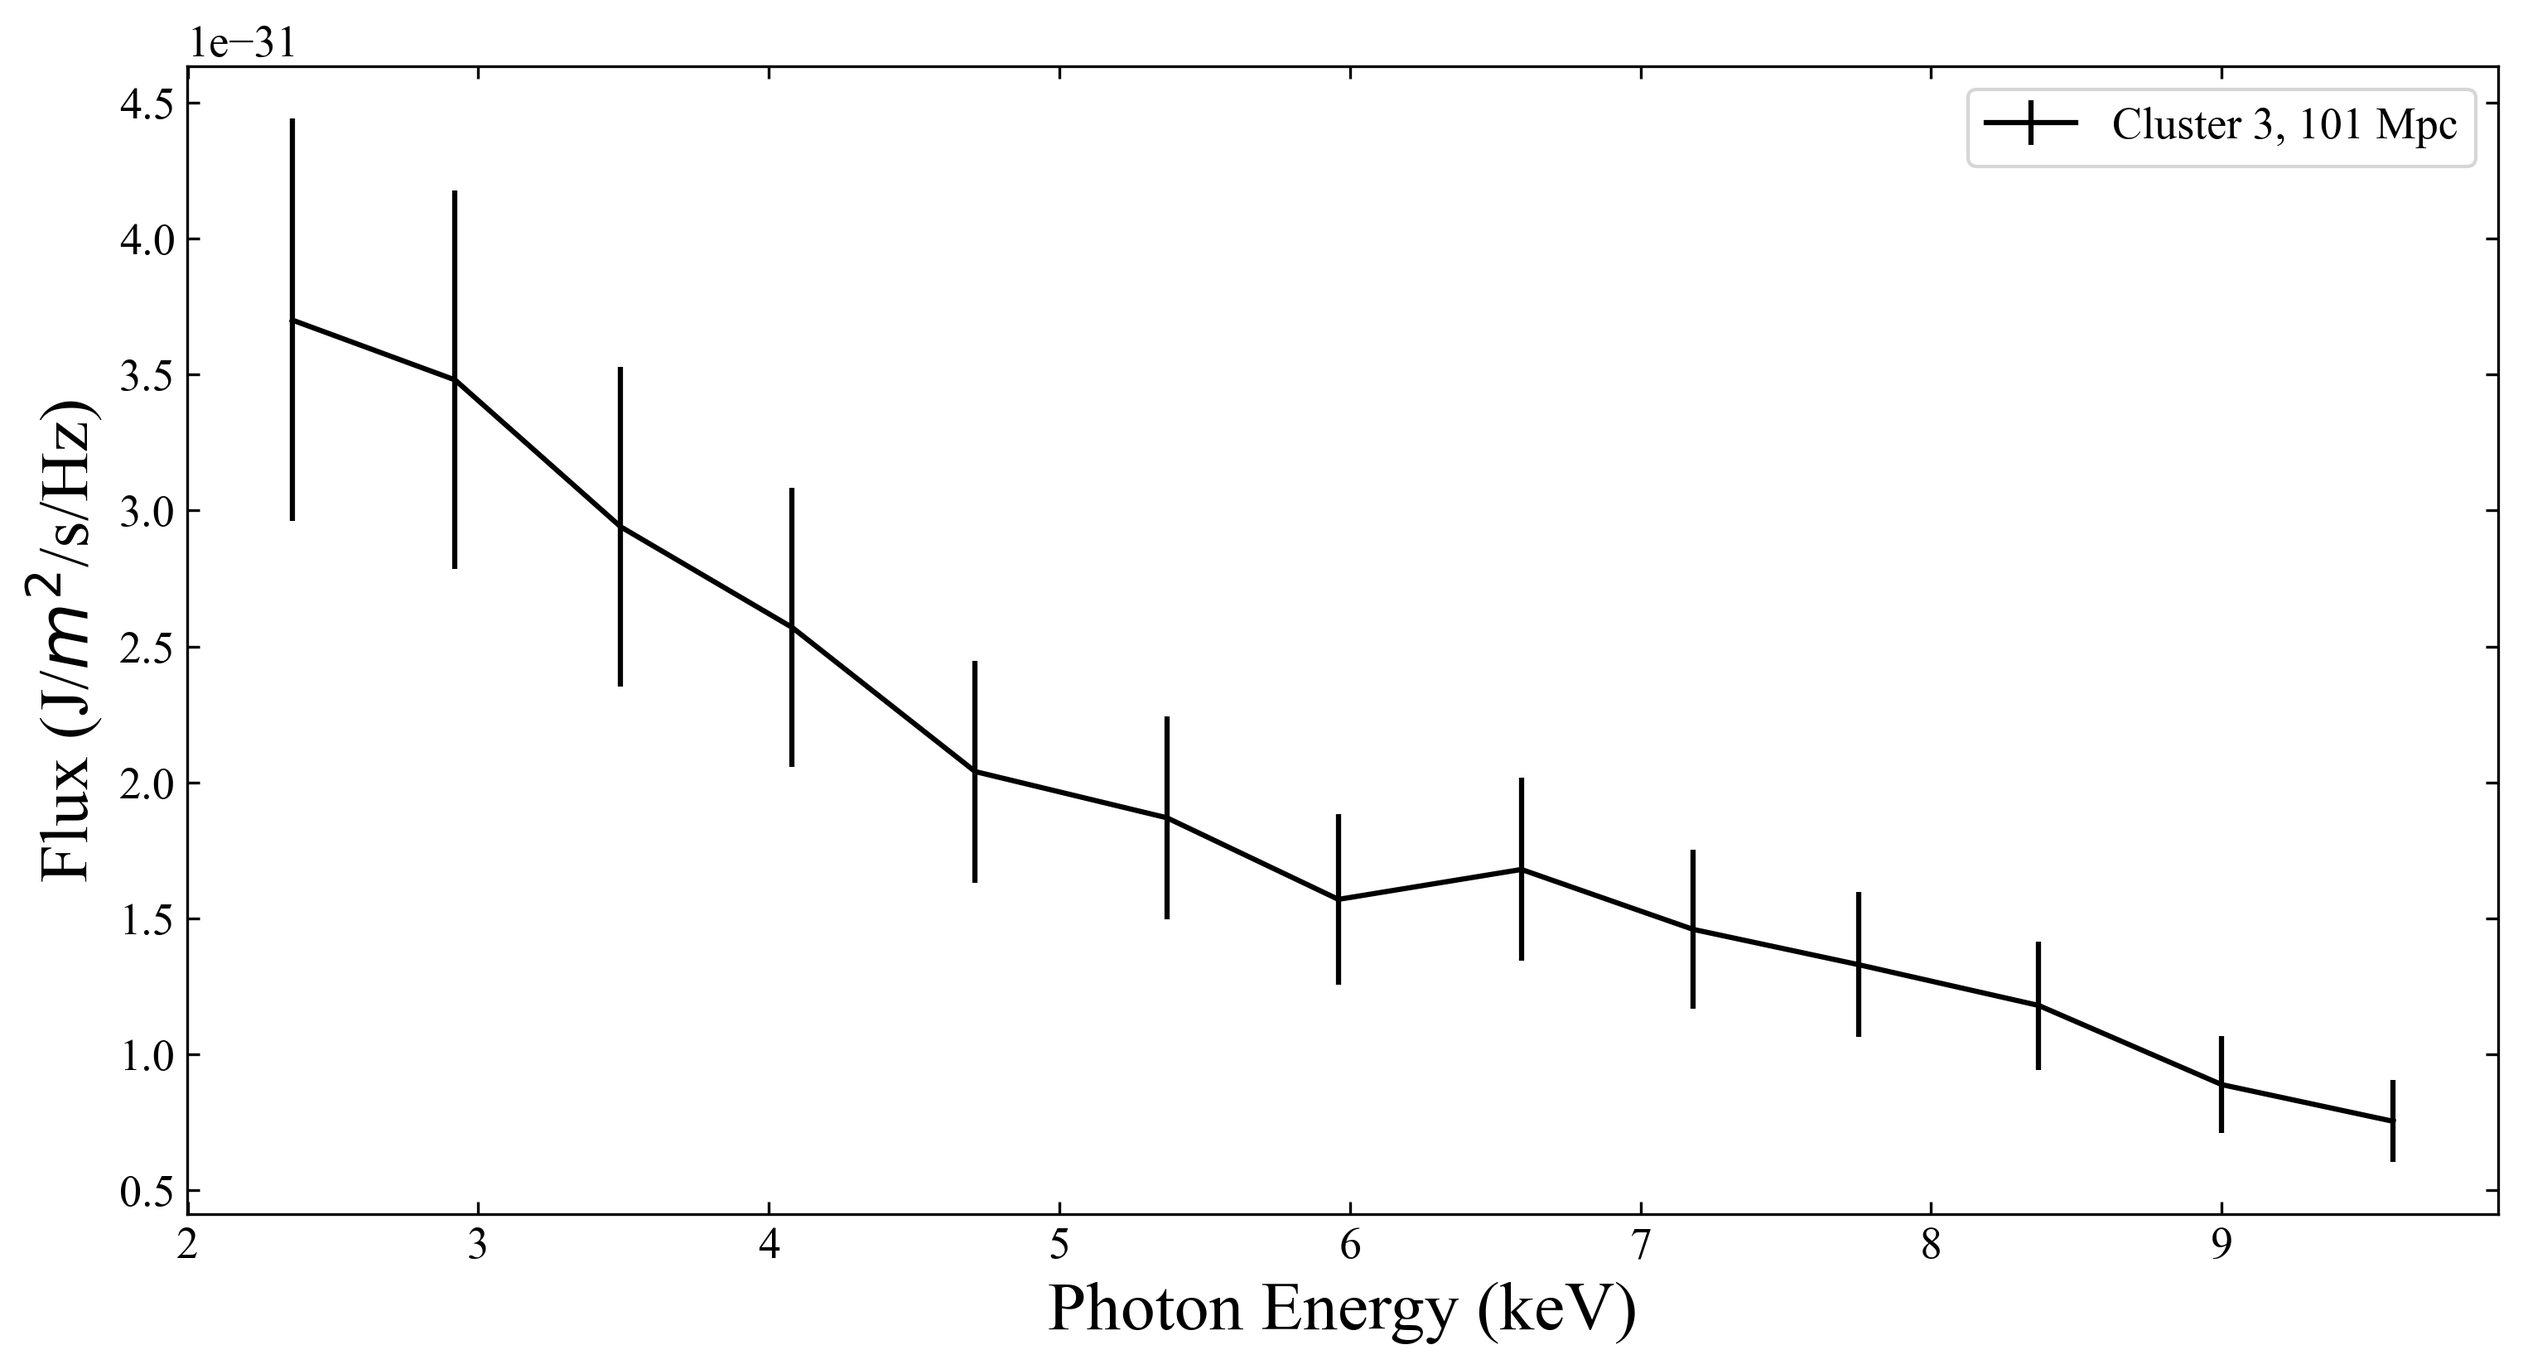
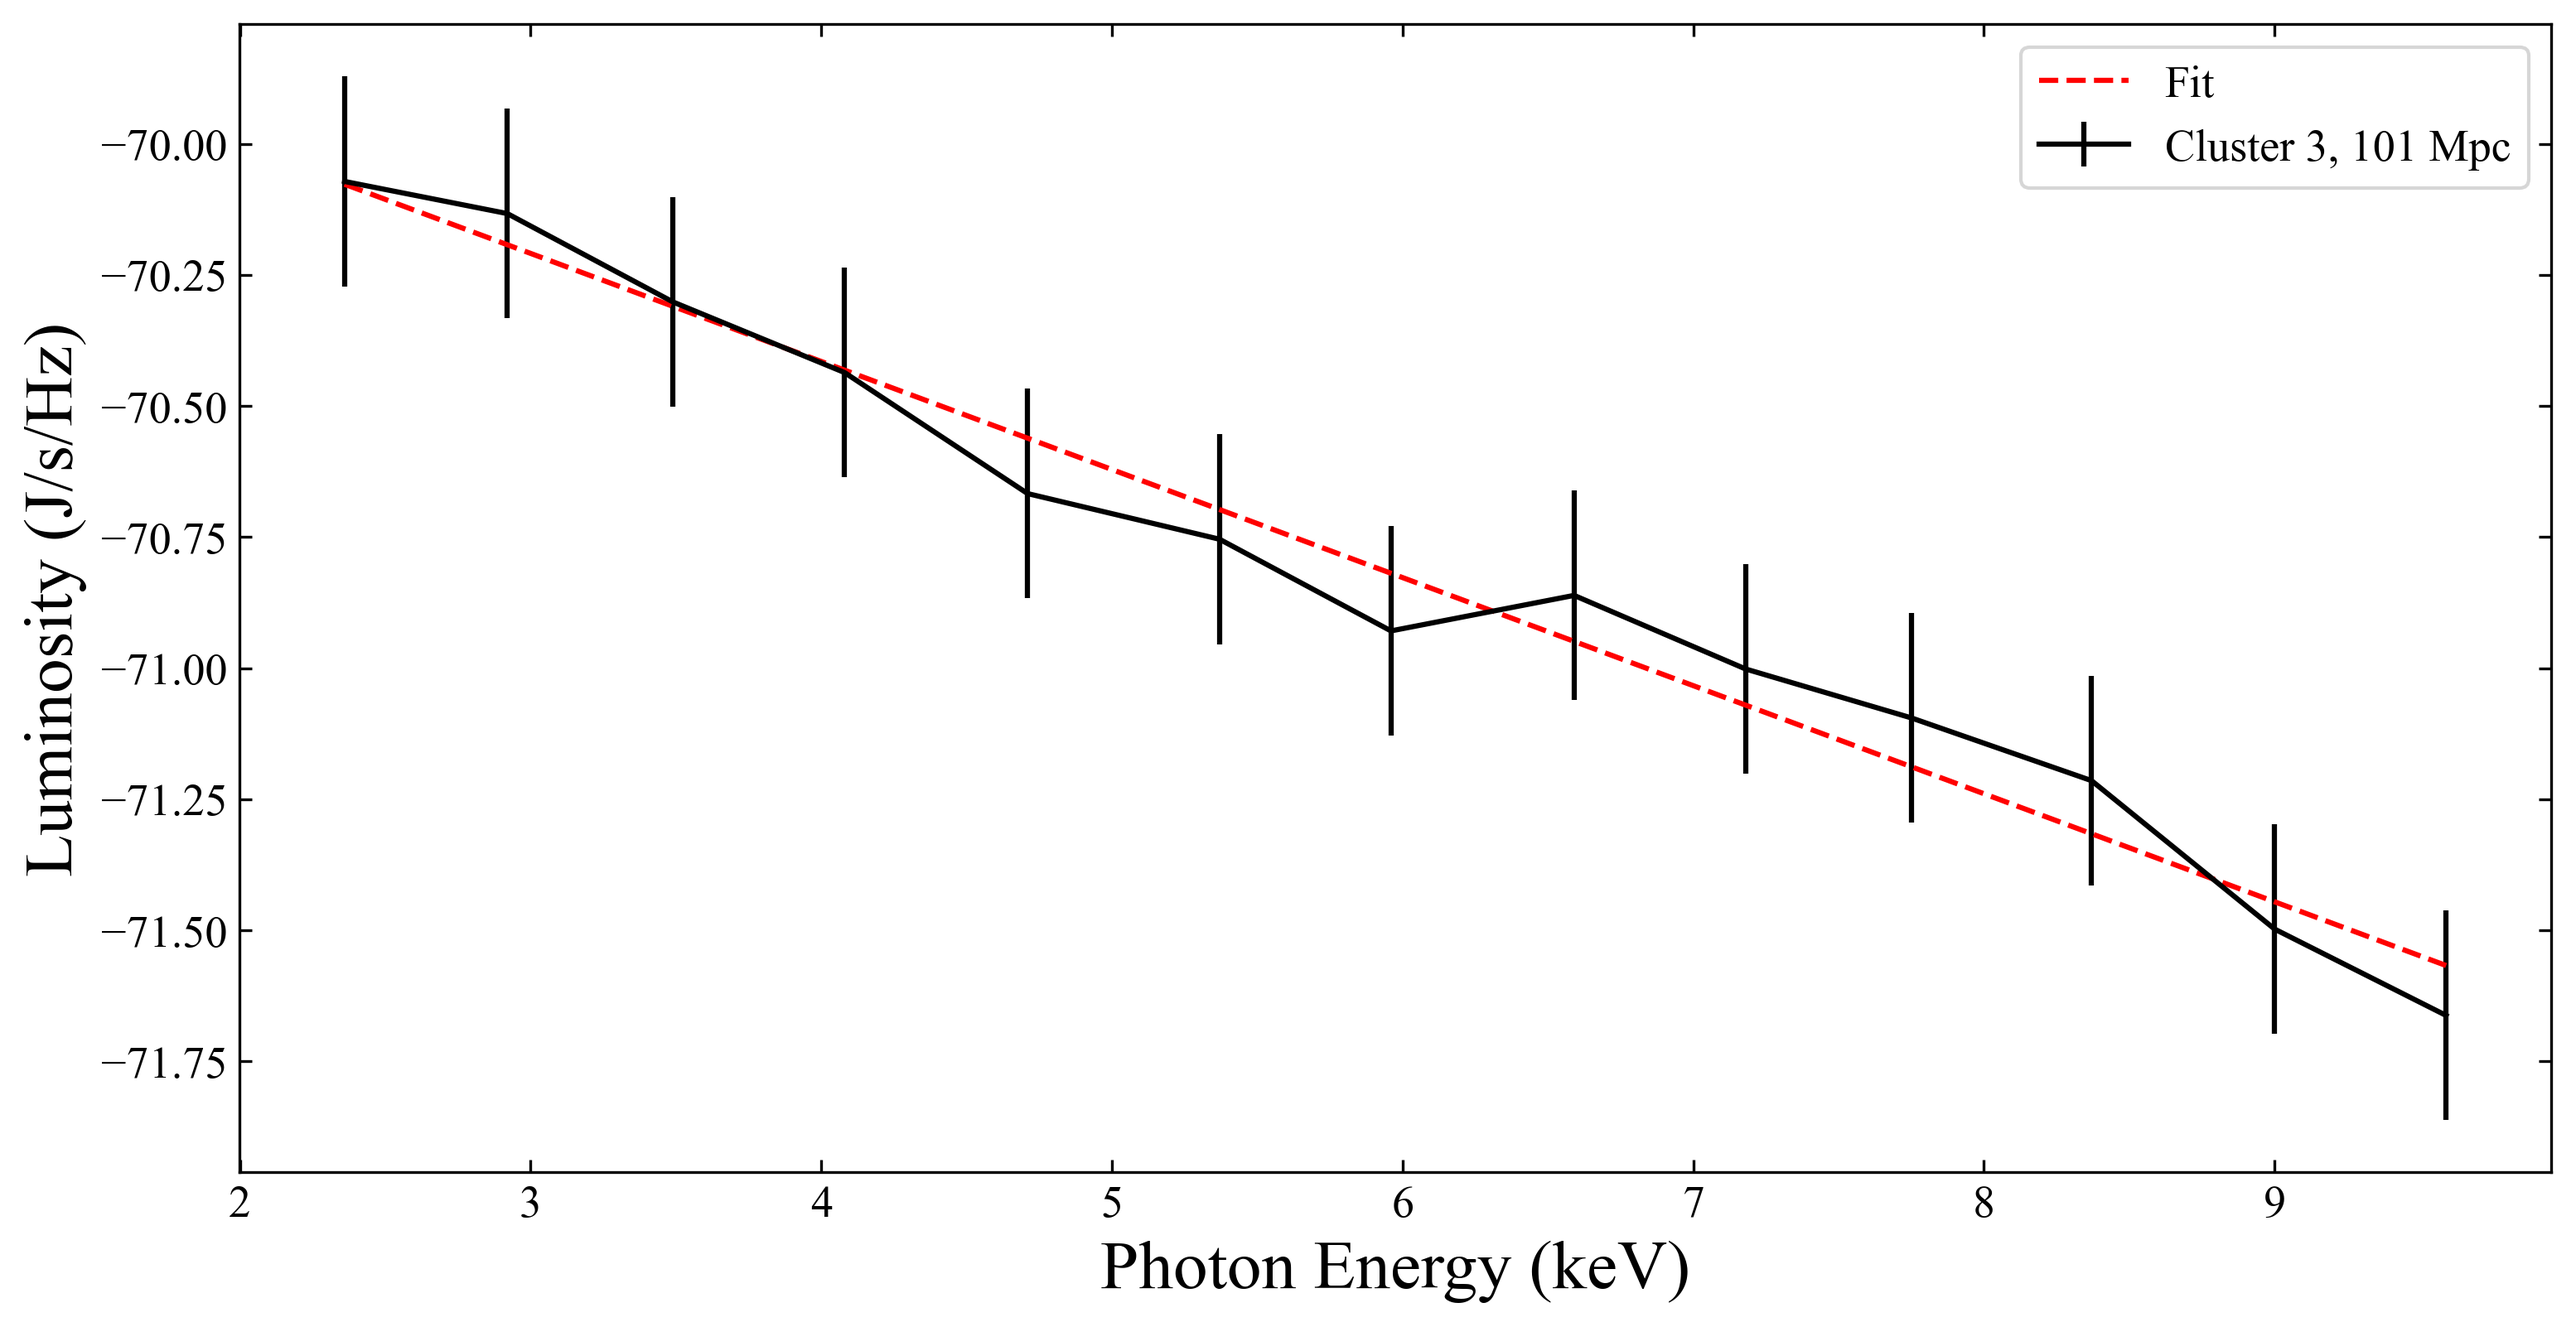
working on 1a

diff --git a/PHY4006/q1a.py b/PHY4006/q1a.py
@@ -1,5 +1,9 @@
+import math
 import pandas as pd
 from matplotlib import pyplot as plt
+import scipy.constants as const
+import numpy as np
+from scipy.optimize import curve_fit
 
 
 plt.rcParams["font.family"] = "Times New Roman"
@@ -7,6 +11,13 @@ plt.rcParams.update({'font.size': 13})
 
 
 def plot_flux(df):
+    """Function for plotting X-Ray light curves from galexy clusters with flux
+    measurement uncertainty of 20%.
+
+    Args:
+        df (DataFrame): Dataframe with columns 'photon_energy' and 'flux'.
+    """
+
     _, ax = plt.subplots(figsize=(12, 6))
 
     ax.errorbar(
@@ -19,6 +30,7 @@ def plot_flux(df):
 
     plt.legend()
 
+    ax.set_yscale('log')
     ax.set_xlabel(
         'Photon Energy (keV)',
         fontsize=20
@@ -53,16 +65,208 @@ def plot_flux(df):
     plt.show()
 
 
+def plot_luminosity(df):
+    """Function for plotting X-Ray light curves from galexy clusters with flux
+    measurement uncertainty of 20%.
+
+    Args:
+        df (DataFrame): Dataframe with columns 'photon_energy' and 'flux'.
+    """
+
+    _, ax = plt.subplots(figsize=(12, 6))
+
+    ax.errorbar(
+        x=df.photon_energy,
+        y=df.luminosity,
+        yerr=df.flux * 4 * const.pi * distance * 0.2,
+        color='k',
+        label='Cluster 3, 101 Mpc'
+    )
+
+    plt.legend()
+
+    ax.set_xlabel(
+        'Photon Energy (keV)',
+        fontsize=20
+    )
+    ax.set_ylabel(
+        'Luminosity (J/s/Hz)',
+        fontsize=20
+    )
+    ax.tick_params(
+        axis='x',
+        labelsize=13,
+        rotation=0,
+        direction='in',
+        top=True,
+        labelbottom=True
+    )
+    ax.tick_params(
+        axis='y',
+        labelsize=13,
+        which='both',
+        direction='in',
+        right=True,
+        labelbottom=True
+    )
+
+    plt.savefig(
+        f'PHY4006/flux_curve.png',
+        dpi=300,
+        bbox_inches='tight'
+    )
+
+    plt.show()
+
+
+def plot_luminosity_fit(df):
+    """Function for plotting X-Ray light curves from galexy clusters with flux
+    measurement uncertainty of 20%.
+
+    Args:
+        df (DataFrame): Dataframe with columns 'photon_energy' and 'flux'.
+    """
+
+    _, ax = plt.subplots(figsize=(12, 6))
+
+    ax.errorbar(
+        x=df.photon_energy,
+        y=np.log(df.flux),
+        # yerr=df.flux * 4 * const.pi * distance * 0.2,
+        yerr=(df.flux * 0.2) / df.flux,
+        color='k',
+        label='Cluster 3, 101 Mpc'
+    )
+
+    ax.plot(
+        df.photon_energy,
+        df.fit,
+        color='r',
+        linestyle='--',
+        label='Fit'
+    )
+
+    plt.legend()
+
+    ax.set_xlabel(
+        'Photon Energy (keV)',
+        fontsize=20
+    )
+    ax.set_ylabel(
+        'Luminosity (J/s/Hz)',
+        fontsize=20
+    )
+    ax.tick_params(
+        axis='x',
+        labelsize=13,
+        rotation=0,
+        direction='in',
+        top=True,
+        labelbottom=True
+    )
+    ax.tick_params(
+        axis='y',
+        labelsize=13,
+        which='both',
+        direction='in',
+        right=True,
+        labelbottom=True
+    )
+
+    plt.savefig(
+        f'PHY4006/flux_curve.png',
+        dpi=300,
+        bbox_inches='tight'
+    )
+
+    plt.show()
+
+
+def bremsstrahlung_luminosity(E, T):#, n_i, n_e):
+    v = (E * 1e3 * const.e) / const.h
+    Z = 26
+    n_i = 1e10
+    n_e = 1e10
+    # T = 1e11
+
+    constant = 6.8e-51
+    Z_T_terms = Z**2 * T**(-1/2)
+    density_terms = n_i * n_e
+    exp_term = np.exp((-const.h * v) / (const.Boltzmann * T))
+    
+    return constant * Z_T_terms * density_terms * exp_term
+
+
+def energy_to_wavelength(E):
+    E_joules = E * 1e3 * const.e
+    return (const.c * const.h) / E_joules
+
+
+def power_law(E, T):
+
+    wavelength = energy_to_wavelength(E)
+
+    L_top = 2 * const.h * const.c**2
+
+    L_bottom = wavelength**5
+
+    R_bottom = np.exp(
+        (const.h * const.c) /
+        (wavelength * const.k * T)
+    ) - 1
+
+    curve = (L_top / L_bottom) * (1 / R_bottom)
+    return curve / curve.max()
+
+
+# def straight_line(x, m, c):
+#     return m * x + c
+
+
 filename = 'PHY4006/cluster_3.csv'
-distance = 101 # Mpc
+distance = 101 * 1e6 * const.parsec # Mpc
 
 df = pd.read_csv(filename)
 
+'''
 # Columns:
 # photon_energy - keV
 # flux - J/m^2/s/Hz - Uncertainty = 20%
 
 # flux is dominated by thermal bremsstrahlung
-# Gaunt factor \aprox 1
+# Gaunt factor ~ 1
+'''
 
-plot_flux(df)
+# df['luminosity'] = df.flux * 4 * const.pi * distance
+df['relative_flux'] = df.flux / df.flux.max()
+
+# plot_flux(df)
+# plot_luminosity(df)
+
+# popt, pcov = curve_fit(
+#     power_law,
+#     df.photon_energy,
+#     df.relative_flux,
+#     bounds=(0, 1e8)
+# )
+
+# df['fit'] = power_law(df.photon_energy, *popt)
+# print(popt)
+
+# plot_luminosity_fit(df)
+
+df['fit'] = power_law(df.photon_energy, 5.5e6)
+
+plt.plot(
+    df.photon_energy,
+    df.fit,
+    'r--'
+)
+
+plt.plot(
+    df.photon_energy,
+    df.relative_flux,
+    'k'
+)
+
+plt.show()

diff --git a/PHY4006/scipy_optimise.py b/PHY4006/scipy_optimise.py
@@ -1,0 +1,32 @@
+import numpy as np
+import matplotlib.pyplot as plt
+from scipy.optimize import curve_fit
+
+def func(x, a, b, c):
+    return a * np.exp(-b * x) + c
+
+xdata = np.linspace(0, 4, 50)
+y = func(xdata, 2.5, 1.3, 0.5)
+print([2.5, 1.3, 0.5])
+rng = np.random.default_rng()
+y_noise = 0.2 * rng.normal(size=xdata.size)
+ydata = y + y_noise
+plt.plot(xdata, ydata, 'b-', label='data')
+
+
+popt, pcov = curve_fit(func, xdata, ydata)
+print(popt)
+plt.plot(xdata, func(xdata, *popt), 'r-',
+         label='fit: a=%5.3f, b=%5.3f, c=%5.3f' % tuple(popt))
+
+
+popt, pcov = curve_fit(func, xdata, ydata, bounds=(0, [3., 1., 0.5]))
+print(popt)
+plt.plot(xdata, func(xdata, *popt), 'g--',
+         label='fit: a=%5.3f, b=%5.3f, c=%5.3f' % tuple(popt))
+
+print(type(func(xdata, *popt)))
+plt.xlabel('x')
+plt.ylabel('y')
+plt.legend()
+plt.show()
